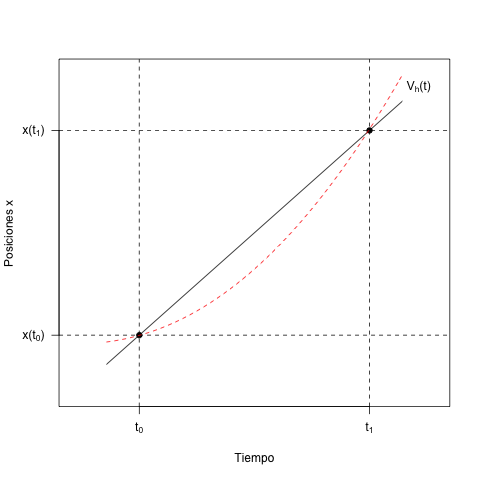
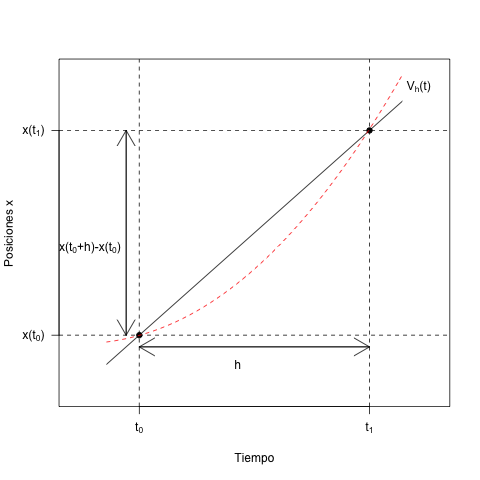
Intro

Changed region(s): [[0.125, 0.2812, 0.2812, 0.7188], [0.2812, 0.7188, 0.7812, 0.7812]]

diff --git a/Math/Intro.md b/Math/Intro.md
@@ -1,23 +1,55 @@
 # Introducción
 
-Supongamos dos posiciones en un eje: *X(t0)* y *X(t1)*. Donde *h* es el tiempo transcurrido entre ambas.
+### Modelado Matemático de una Realidad (para biólgos)
+
+Un modelo debe cumplir con ciertas características para poder considerarse válido.
+
+**Debe ser lo suficientemente sencillo.** Un modelo que fuera demasiado complicado no podría cumplir con el objetivo de modelar un fenómeno pues se parecería tanto al fenómeno que estudiar el propio modelo requeriría un nuevo modelo. Sería como un empaque de tijeras que requiere tijeras para poder ser abierto.
+
+#### Ejemplo
+
+Supongamos dos posiciones en un eje: *X(t<sub>0</sub>)* y *X(t<sub>1</sub>)*. Donde *h* es el tiempo transcurrido entre ambas.
 
 Esto sería descrito por:  
 &nbsp;&nbsp;&nbsp;&nbsp;<img src="eq1.png" height=16>
 
-Despejando t1 de la ecuación, obtenemos que  
+Despejando *t<sub>1</sub>* de la ecuación, obtenemos que  
 &nbsp;&nbsp;&nbsp;&nbsp;<img src="eq2.png" height=16>
 
-Por lo que considerando la posición **X(t1)** de la manera <img src="eq3.png" height=16> renombramos *X(t1)* como *X(t0+h)* y lo escribimos como la velocidad:
+Por lo que considerando la posición ***X(t<sub>1</sub>)*** de la manera <img src="eq3.png" height=16> renombramos *X(t<sub>1</sub>)* como *X(t<sub>0</sub>+h)*.
+
+La velocidad es igual a la distancia entre el tiempo. Ya renombramos la posición *X(t<sub>1</sub>)* como *X(t<sub>0</sub>+h)*, de manera que tenemos una expresión en función de una sola *t<sub>0</sub>* y el intervalo de *X(t<sub>0</sub>)* hasta *X(t<sub>1</sub>)*:
 
 &nbsp;&nbsp;&nbsp;&nbsp;<img src="eq4.png" height=30>
 
-La velocidad es igual a la distancia entre el tiempo. Ya renombramos la posición *X(t1)* como *X(t0+h)*, de manera que solo tenemos una *t*.
+De esta manera, <img src="dist.png" height=16> representa la distancia entre ambos puntos. Por esta razón, mientras que *h* representa el factor tiempo, y la diferencia de *x(t<sub>1</sub>)-x(t<sub>0</sub>)* el cambio de posición, podemos decir que el cociente entre uno y otro es el valor de la **pendiente**.
 
-De esta manera, <img src="dist.png" height=16> representa la distancia entre ambos puntos. Mientras que *h* representa el factor tiempo.
-
-Este modelo de velocidad supone un incremento de manera uniforme. A lo largo de todo el tiempo *h*, el incremento en distancia, es decir, la velocidad, fue **la misma**.
+Por ello, este modelo de velocidad supone un incremento de manera uniforme, ya que solo tenemos dos datos, uno de la posición inicial y uno de la posición final. Lo que lleva a pensar que a lo largo de todo el tiempo *h*, el incremento en distancia, es decir, la velocidad, fue **la misma**.
 
 <img src="Graf1.png">
 
-Aquí, la **V<sub>h</sub>(t)** solo describe un incremento constante en la velocidad. Si el verdadero incremento en la velocidad hubiera sido dado por la curva punteada de color rojo, entonces el modelo lineal de la velocidad no estaría cercano a la realidad.
+Aquí, la **V<sub>h</sub>(t)** solo describe una velocidad constante. No hay cambios durante el tiempo, no hay *aceleración*. Si el verdadero trayecto hubiera sido dado por la curva punteada de color rojo, por ejemplo, donde la velocidad va aumentando con el tiempo, entonces el modelo lineal de la velocidad no estaría cercano a la realidad. Nuestro cálculo de la velocidad es una secante a la curva. Si queremos calcularla en un punto excato, tenemos que disminuir la ventana de tiempo; es decir, disminuir *h*.
+
+>La velocidad aumenta con el tiempo porque se recorre una mayor distancia en la misma cantidad de tiempo.
+
+Disminuir *h* disminuye el cociente, con lo que la recta secante disminuye su pendiente. Si *h* es lo suficientemente pequeño, se puede considerar como un solo punto. Esto hace que de secante pase a ser una tangente, es decir, la velocidad que se está calculando sería la **velocidad instantanea**. Un solo punto en la gráfica que podría encontrarse sobre la verdadera curva de velocidad.
+
+Esto se define como:
+
+<img src="lim.png" height=25>
+
+Cuando *t=t<sub>0</sub>*, pues es la obseración en un solo punto. Para verla en otro punto se cambia la *t<sub>0</sub>*. Esto es debido a que cuando *h*->0 podemos considerar a h como un solo punto, o como un espacio de tiempo tan pequeño que es **puntual**.
+
+Y esto es a grandes rasgos una derivada. Donde la pendiente de la recta secante (nuestro cálculo de velocidad) se acerca a la pendiente de la recta tangente (nuestra velocidad instantanea).
+
+Usando una notación más simple podemos expresar la ecuación anterior como:
+
+<img src="deriv.png" height=30>
+
+>Que se puede leer como "la derivada de x(t) con respecto al tiempo".
+
+##### En situaciones ideales
+
+La velocidad de crecimiento de una colonia bacteriana se puede considerar proporcional a la acantidad de bacterias en el tiempo *t*.
+
+Cuando *t*=0 el cultivo tiene *b*(0)=b<sub>0</sub> de bacterias. Pasada 1 hora (*b*(1)) hay *b*(1) bacterias. Es decir: λ(b<sub>0</sub>).

diff --git a/Miscelanea/Pseudorrep.md b/Miscelanea/Pseudorrep.md
@@ -1,0 +1,13 @@
+## El Peligro de las Pseudorréplicas
+
+&nbsp;&nbsp;&nbsp;&nbsp;&nbsp;&nbsp;"_Not all study designs yield meaningful results._"
+
+-Ranstam, 2012.
+
+En un proyecto, ya sea de laboratorio, de campo, de clínica, etc, el proceso de muestreo es vital para poder llevar a cabo cualquier tipo de análiis científico. Sin embargo, es común confundir dos términos relacionados y de aparente simplicidad: _experimento_ y _réplica_.
+
+Un **experimento** puede ser por ejemplo, un solo cultivo de bacterias. Diez cultivos pueden ser considerados diez experimentos. Sin embargo, de la misma manera se puede considerar que el proceso entero de hacer los diez cultivos es **un** solo experimento.
+
+Una **réplica** son mediciones repetidas de una misma *unidad de análisis*. Pero de la misma manera se puede usar para describir *replicados biológicos*, los cuales son unidades de análisis independientes.
+
+Una confusión entre estos términos puede llevar a múltiples observaciones en la misma unidad de análisis. A este fenómeno, Hurlbert, 1984, le llama **psuedorreplicación**, lo cuál no es más que **múltiples observaciones en la misma unidad de análisis**.
